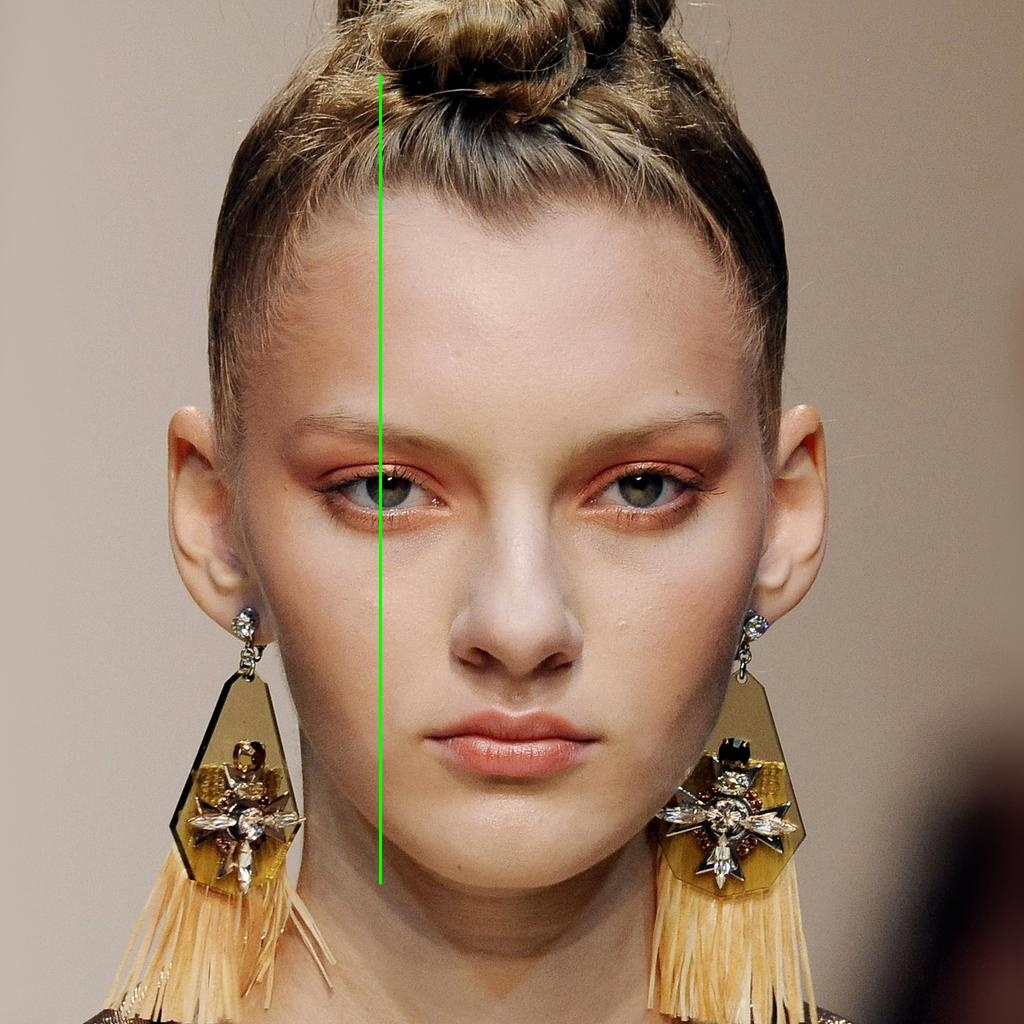
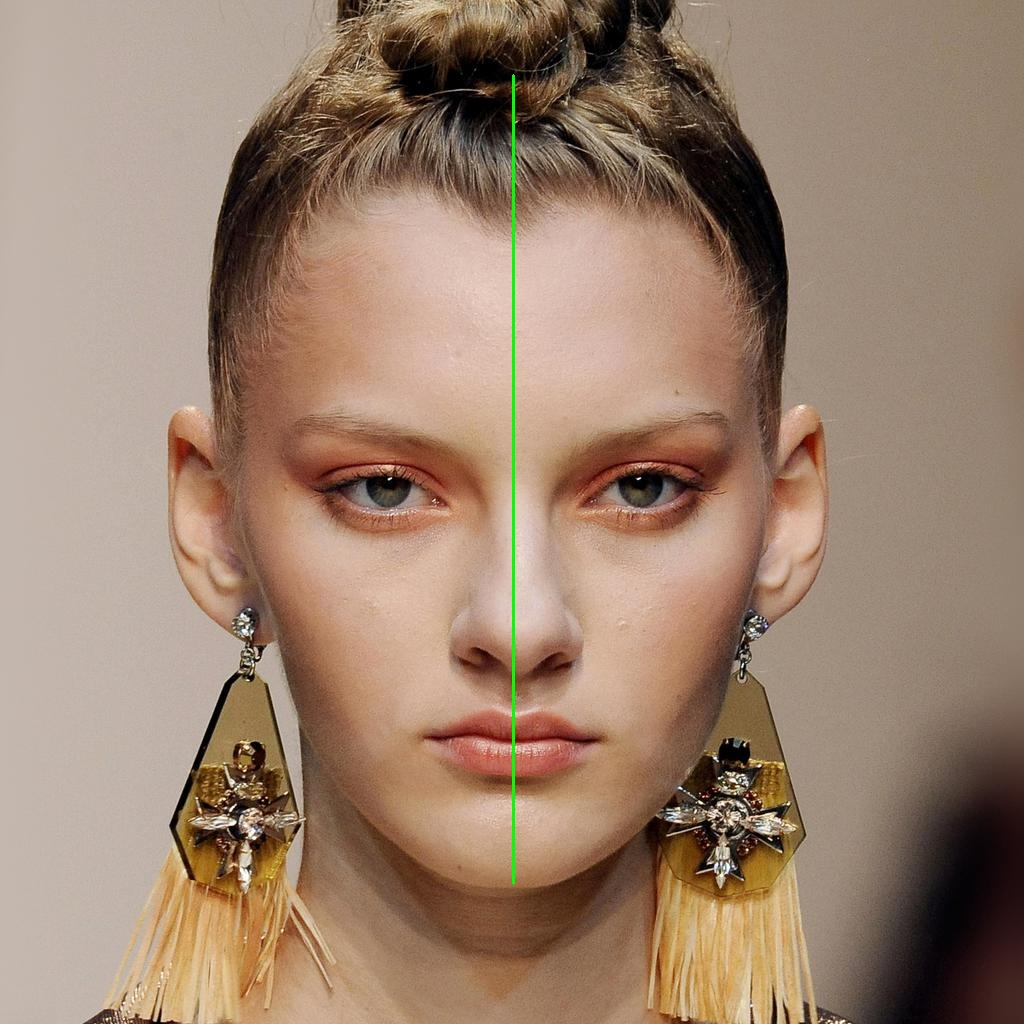
correct the line place

Changed region(s): [[0.3438, 0.0625, 0.375, 0.875], [0.5, 0.0938, 0.5312, 0.8438]]

diff --git a/code/insightFace_head_leangth_width_measurement.py b/code/insightFace_head_leangth_width_measurement.py
@@ -39,7 +39,7 @@ head_length_from_crown = 2 * distance
 
 # Draw the line between the center of the eyes and the chain
 head_crown_y = round(center_y) -  round(distance) # claculate the crown y coordinates
-cv2.line(image, (chin_coordinate[0], head_crown_y), (chin_coordinate[0], chin_coordinate[1]), (0, 255, 0), 2)
+cv2.line(image, (center_eye_coordinate[0], head_crown_y), (center_eye_coordinate[0], chin_coordinate[1]), (0, 255, 0), 2)
 
 # Print the head width and length in pixels
 print(f"Head Length from crown: {round(head_length_from_crown)} pixels")
